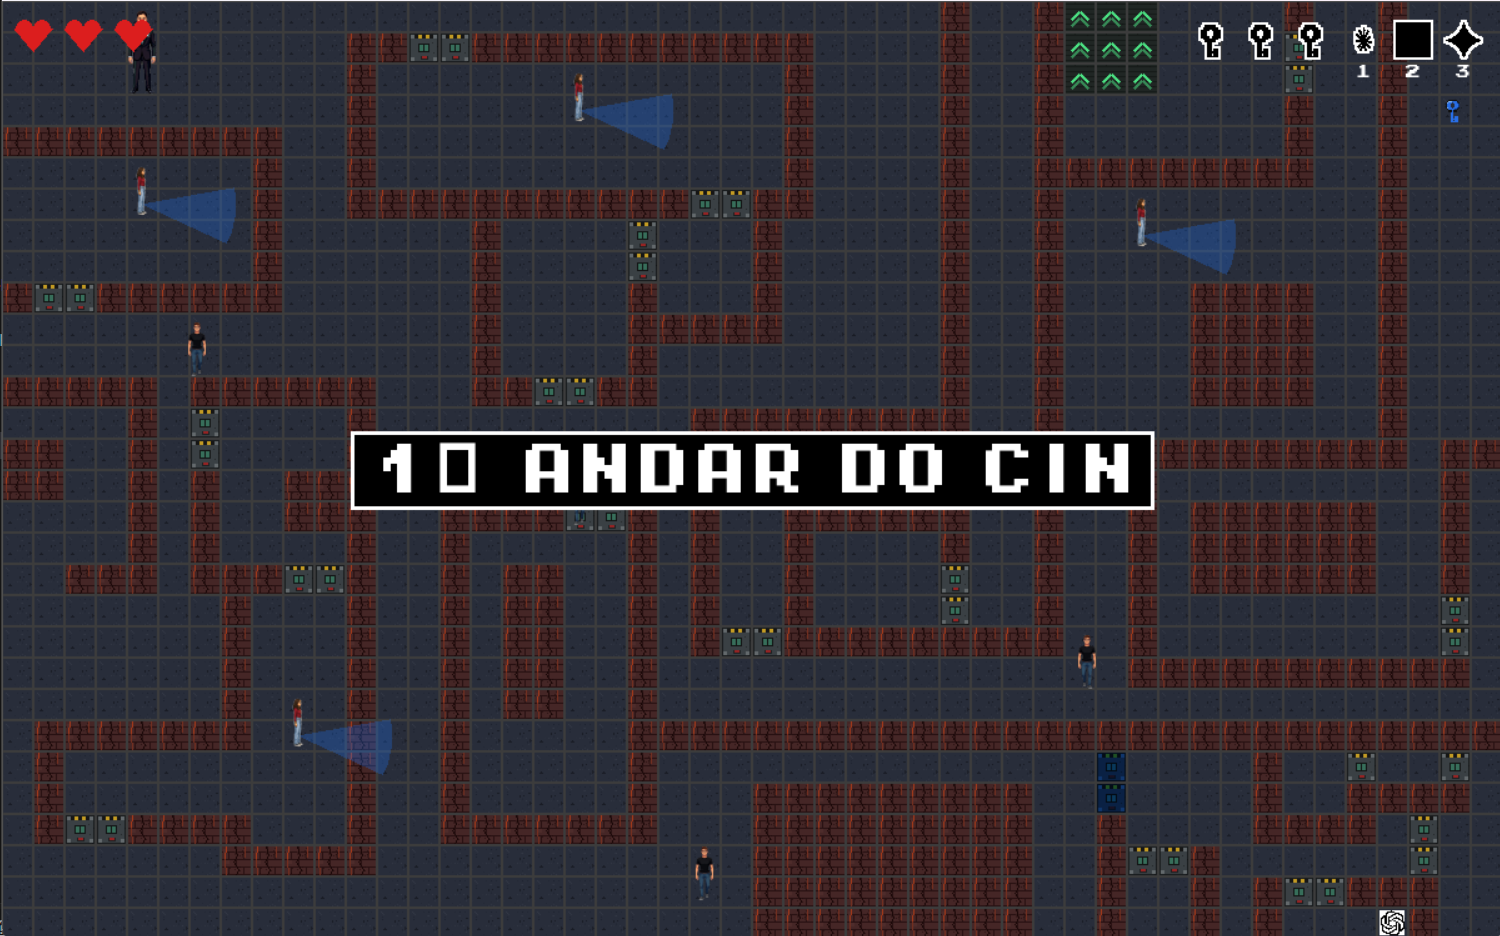
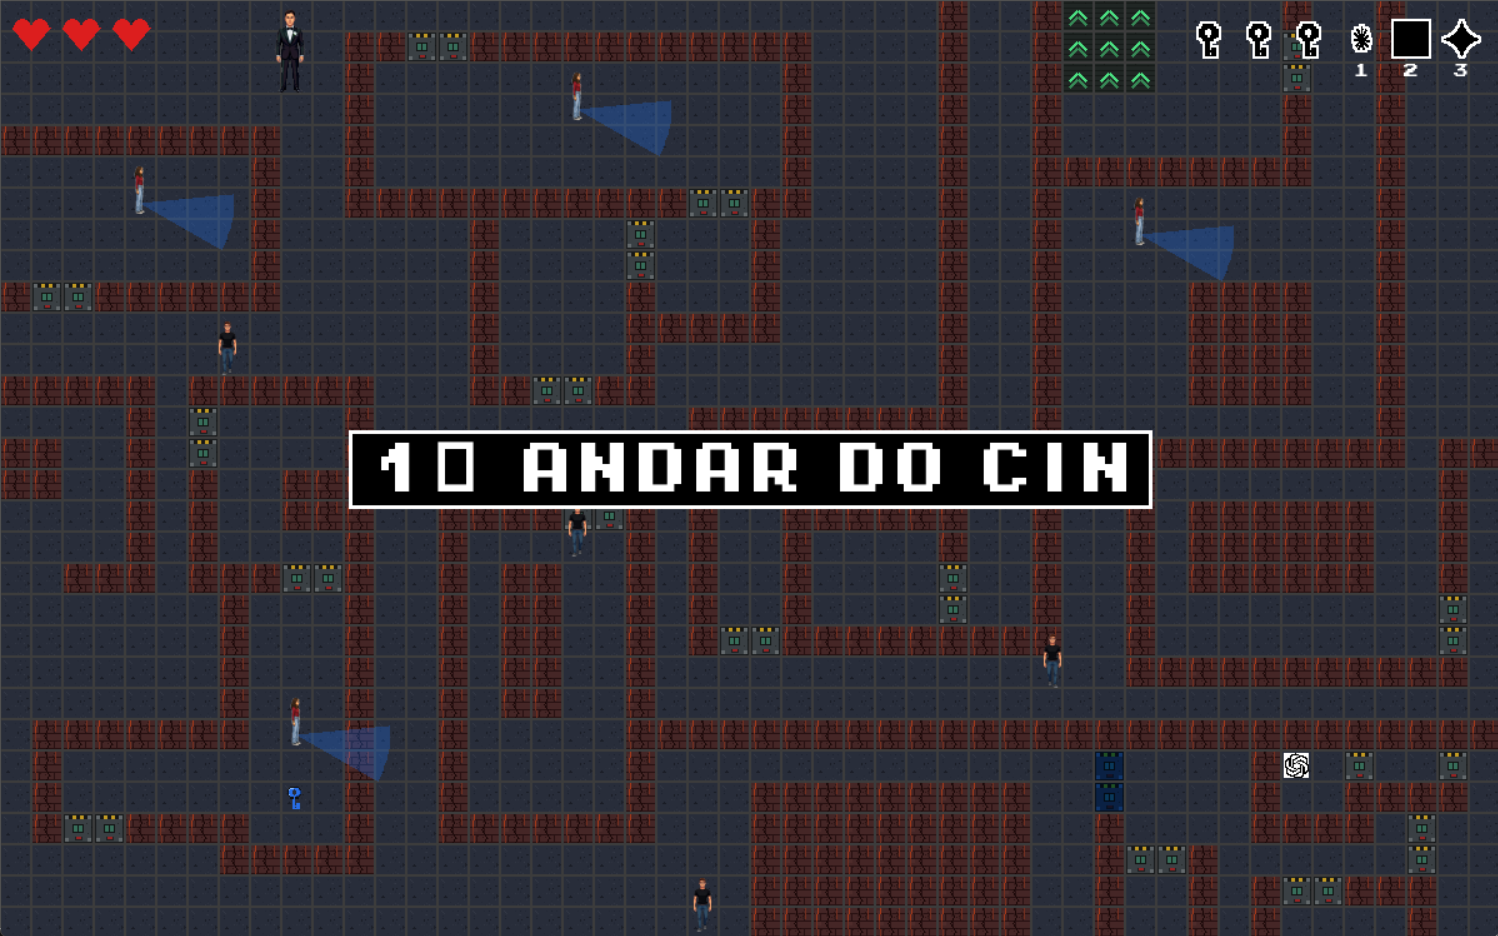
versao final da pagina portifolio e inicio

diff --git a/src/pages/portfolio.jsx b/src/pages/portfolio.jsx
@@ -1,5 +1,11 @@
 import imagemCAD from '../assets/cad-ux-ui.png';
+import imagemCAD2 from '../assets/cad-ux-ui2.png';
 import imagemIP from '../assets/ip.png';
+import imagemIP2 from '../assets/ip2.png';
+import imagemMonitoria from '../assets/icone-monitoria-ip.png';
+import fortinet from '../assets/fortinet-sticker-cybersecurity.png';
+import fortinet2 from '../assets/fortinet-sticker-threat-landscape.png';
+import certCAD from '../assets/certificado-projeto-extensao.png';
 
 function Cabecalho() {
   return (
@@ -25,25 +31,37 @@ function Projetos() {
   return (
     <section className="projetos">
     <h2 className="subtitulo">Projetos Acadêmicos</h2>
+
       <ul>
+
         <li className="projeto">
             <div>
                 <img className="imagem-projeto" src={imagemCAD} alt="Foto projeto CAD-UX-UI" />
+                <img className="imagem-projeto" src={imagemCAD2} alt="Foto projeto CAD-UX-UI" />
             </div>
-            <div>
-                <h4 className="cadeira">CAD-UX-UI</h4>
+            <div className="projeto-descricao">
+                <h4 className="cadeira">CAD - Concepção de artefatos digitais</h4>
                 <h3 className="nomeprojeto">Coreto - Hub de Inovação do Recife</h3>
-                    <p className="descricao"></p>
+                    <p className="descricao">Projeto de UI/UX e IHC desenvolvido para a plataforma Coreto, com o objetivo de facilitar a conexão entre startups, pesquisadores, organizações e oportunidades de inovação. A solução foi construída por meio de pesquisas, acompanhamento de stakeholders, testes de usabilidade e prototipação de melhorias para a plataforma.</p>
+                    <p className="competencias">CAD — UI/UX • IHC • pesquisa com usuários • testes de usabilidade • prototipação • ideação • análise de problemas • comunicação com stakeholders • documentação • trabalho em equipe</p>
+                    <ul className="linksprojeto">
+                      <li> <a href='https://drive.google.com/file/d/1zidLYb3TZa5qqsbp_piKxHVRjkiUPmcw/view?usp=sharing'>Acessar apresentação do projeto</a></li>                     
+                      <li><a href='https://www.figma.com/make/r2Rht7AaffSdeHOJTTaKnK/Coreto?p=f&t=1f52uZ5hcOO4zF17-0&fullscreen=1'>Acessar protótipo no Figma</a></li>
+                    </ul>
             </div>
         </li>
+
         <li className="projeto">
             <div>
                 <img className="imagem-projeto" src={imagemIP} alt="Foto de projeto IP" />
+                <img className="imagem-projeto" src={imagemIP2} alt="Foto de projeto IP" />
             </div>
-            <div>
+            <div className="projeto-descricao">
                 <h4 className="cadeira">IP - Introdução à Programação</h4>
                 <h3 className="nomeprojeto">FIND AI AT CiN</h3>
-                    <p className="descricao"></p>
+                    <p className="descricao">Find AI at CIn é um jogo desenvolvido em Python com o framework Pygame, no qual o jogador explora um labirinto de três andares, coleta chaves e inteligências artificiais e supera diferentes desafios. O projeto aplicou conceitos de programação orientada a objetos, colisões, inventário, interfaces e desenvolvimento colaborativo.</p>
+                    <p className="competencias">IP — Python • Pygame • programação orientada a objetos • lógica de programação • modularização • colisões • interfaces • game design • Git/GitHub • trabalho em equipe</p>
+                    <a href='https://github.com/Fbelt/Projeto-IP'>Acessar GitHub do projeto</a>
             </div>
         </li>
       </ul>
@@ -52,6 +70,46 @@ function Projetos() {
   </section>
 );
 }
+
+function Experiencias() {
+  return (
+    <section > 
+      <div className="experiencias">
+        <div className="experiencia">
+          <h3 className="nomeexperiencia">Monitoria de IP</h3>
+            <img className="imagem-experiencia" src={imagemMonitoria} alt="Foto de monitoria" />
+              <p className="descricaoEXP">Aprovado no processo seletivo para atuar como monitor de Introdução à Programação, auxiliando estudantes na aprendizagem de lógica, Python e resolução de problemas.</p>
+              <div className="competencias">
+              Lógica de programação • Python • resolução de problemas • comunicação • didática • colaboração • responsabilidade acadêmica
+              </div>
+        </div>
+        <div className="experiencia">
+          <h3 className="nomeexperiencia">Fortinet NSE 1</h3>
+            <div className="imagem-experiencia">
+              <img src={fortinet} alt="Foto de certificado Fortinet" />
+              <img src={fortinet2} alt="Foto de certificado Fortinet" />
+            </div>
+              <ol className="descricaoEXP">
+                <li>Getting started in cybersecurity</li>
+                <li>Introduction to the threat landscape</li>
+              </ol>
+            <div className="competencias">
+              Fundamentos de cibersegurança • identificação de ameaças • segurança de redes • firewalls • controle de acesso • análise de riscos
+              </div>
+        </div>
+        <div className="experiencia">
+          <h3 className="nomeexperiencia">Certificado de Projeto de Extensão</h3>
+            <img className="imagem-experiencia" src={certCAD} alt="Foto de certificado de projeto de extensão" />
+              <p className="descricaoEXP">Participação como membro da equipe executora no projeto de extensão Concepção de Artefatos Digitais com a Secretaria de Tecnologia do Recife, com carga horária de 20 horas.</p>
+            <div className="competencias">
+              UI/UX • IHC • pesquisa com usuários • testes de usabilidade • prototipação • comunicação com stakeholders • documentação • trabalho em equipe
+              </div>
+        </div>
+      </div>
+    </section>
+  );
+}
+
 function Portfolio() {
   return (
     <div>
@@ -59,6 +117,7 @@ function Portfolio() {
         <main>
             <Titulo />
             <Projetos />
+            <Experiencias />
         </main>
     </div>
   );

diff --git a/src/index.css b/src/index.css
@@ -74,6 +74,7 @@ h2 {
 }
 
 h1 {
+  padding: 0 16px;
   font-size: 56px;
   letter-spacing: -1.68px;
   margin: 32px 0;
@@ -91,7 +92,6 @@ h1 {
 }
 
 h2 {
-  text-align: left ;
   font-size: 24px;
   line-height: 118%;
   letter-spacing: -0.24px;
@@ -109,7 +109,8 @@ h2 {
 }
 p {
   margin: 0;
-  text-align: left;
+  padding: 0 10px;
+  text-align: justify;
 }
 
 code,
@@ -134,6 +135,9 @@ header {
   border-bottom: 1px solid var(--border);
 }
 
+.subtitulo {
+  padding: 4px 16px;
+}
 .navegacao { 
   display: flex;
   gap: 16px;
@@ -142,6 +146,7 @@ header {
 .apresentacao {
   display: flex;
   align-items: space-evenly;
+  padding: 0 32px;
   gap: 32px;
   margin-bottom: 32px;
   margin-top: 32px;
@@ -155,7 +160,7 @@ header {
 
 .informacoes {
   flex:1;
-  text-align: left;
+  text-align: left
 }
 .cabecalho {
   display: flex;
@@ -174,20 +179,72 @@ header {
   padding: 8px 16px;
   text-decoration: none;
   color: var(--text-h);
-  font-size: 20px;
+  font-size: 20px
 }
 
 .imagem-projeto {
   width: 100%;
-  max-width: 400px;
-  height: auto;
-  margin-bottom: 16px;
+  max-width: 1000px
 }
 
 .projeto {
+  background-color: #1f2028;
+  border: 4px;
+  border-radius: 8px;
+  padding: 1%;
   display: flex;
   flex: 1;
   gap: 16px;
-  margin-bottom: 10px;
+  margin: 10px;
   text-align: left;
+}
+
+.projeto-descricao {
+  text-align: justify
+}
+
+.competencias {
+  background-color: #303450;
+  border: 4px;
+  border-radius: 8px;
+  padding: 1%;
+  gap: 16px;
+  margin-top: 16px
+}
+
+.nomeprojeto {
+  background: linear-gradient(
+    90deg,
+    rgba(54, 37, 89, 1) 50%,
+    rgb(31, 32, 40) 100%
+  );
+  border-radius: 8px;
+  padding: 1px 8px;
+  margin-bottom: 8px;
+}
+
+
+.experiencias {
+  text-align: justify;
+  display: flex; 
+  flex: 1;
+  gap: 20px;
+  padding: 0 64px;
+}
+
+.experiencia {
+  border-radius: 16px;
+  background-color:#1f2028;
+  gap: 16px;
+  margin-bottom: auto;
+}
+
+.imagem-experiencia {
+  width: 80%;
+  max-width: 150px;
+  padding: 0 84px
+}
+
+.nomeexperiencia {
+  text-align: center
 }
